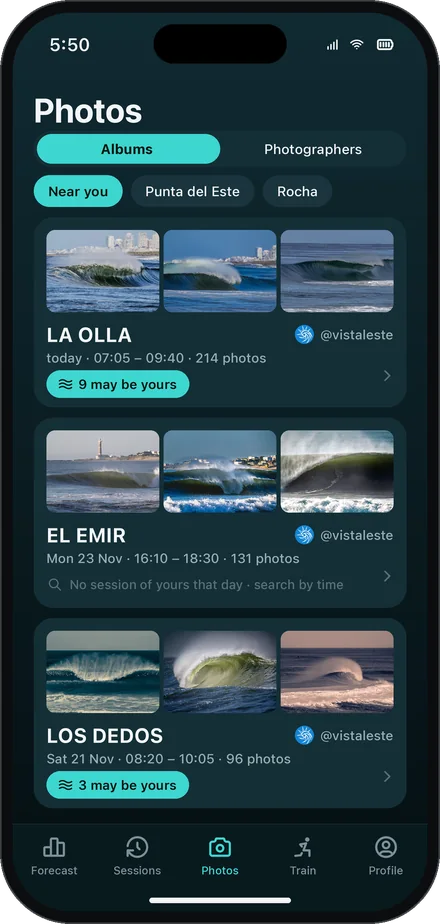
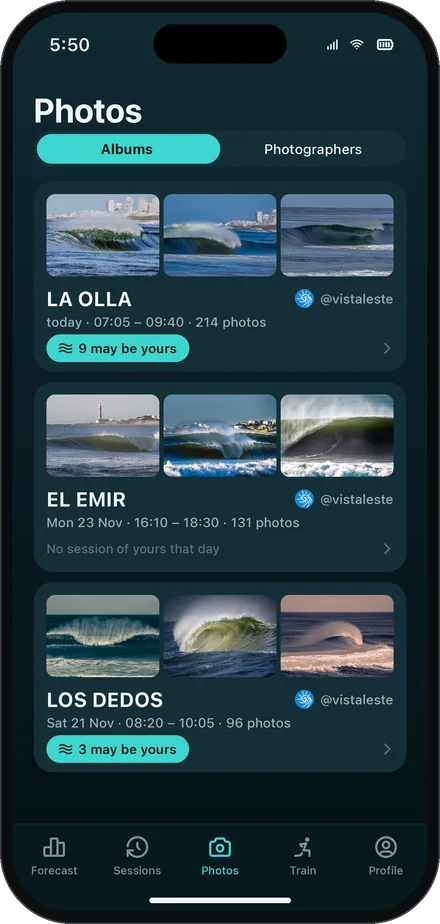
fotografos.html: las pantallas del teléfono como las tiene la app, con las fotos de @vistaleste
Las dos pantallas (fotos-ficha-{l}.webp, fotos-albumes-{l}.webp, en español, inglés y portugués) salían
de los mockups y mostraban cosas que la app no tiene. Ahora son como en la app del 25/11:

- La ficha de @vistaleste con un solo botón, Instagram (no tiene WhatsApp cargado), «Uruguay · Punta
  del Este» (no Rocha) y el texto de la app: «Las fotos son de @vistaleste. Para pedirle una, escribile.»
- Los álbumes sin los filtros «Cerca tuyo · Punta del Este · Rocha», que la app no tiene, y «Sin sesión
  tuya ese día» sin «buscar por hora».
- Las palabras en inglés y portugués, las de la app.
- El texto alternativo de la ficha dice «su Instagram» en vez de «sus contactos».

Siguen con las fotos reales de sus álbumes, nunca las dibujadas de la carpeta de prueba. Son las mismas
pantallas de las stories de Fotos (SurfDawn-tienda/instagram/web/phone-fotos-*.png, dibujadas con
web/fuentes/pantallas_fotos.py). Mirada en compu (1280 px) y teléfono (375 px), en español e inglés.

diff --git a/fotografos.html b/fotografos.html
@@ -16,8 +16,9 @@
 <meta property="og:image" content="https://surfdawn.app/web/foto-verde.jpg">
 <meta name="twitter:card" content="summary_large_image">
 <!-- Fotos, for photographers (25/11/2026): how it works for them, what they send, the rules and who is already in.
-     Only @vistaleste's photos in his albums and on his card; the phone screens (one per language) come from the Fotos
-     mockups until the app has its own screenshots. The images are copies here, never loaded from Google Drive (Drive is not a CDN). -->
+     Only @vistaleste's photos in his albums and on his card; the phone screens (one per language) are the app's as it
+     has them (25/11/2026: no zone pills, his card with Instagram alone and Punta del Este), drawn with his photos
+     (SurfDawn-tienda/instagram/web/fuentes/pantallas_fotos.py, as the stories'), until the app has its own screenshots. The images are copies here, never loaded from Google Drive (Drive is not a CDN). -->
 <style>
   @font-face { font-family: "Barlow"; font-weight: 600; font-display: swap; src: url("web/fonts/Barlow-SemiBold.woff") format("woff"); }
   @font-face { font-family: "Barlow"; font-weight: 500; font-display: swap; src: url("web/fonts/Barlow-Medium.woff") format("woff"); }
@@ -144,7 +145,7 @@
       </div>
       <span class="pin"><svg viewBox="0 0 24 24" fill="none" stroke="currentColor" stroke-width="2" aria-hidden="true"><path d="M9 11a3 3 0 1 0 6 0a3 3 0 0 0 -6 0"/><path d="M17.66 16.66l-4.24 4.24a2 2 0 0 1 -2.83 0l-4.25 -4.24a8 8 0 1 1 11.32 0z"/></svg><span data-t="credit">Uruguay · foto @vistaleste</span></span>
     </div>
-    <img class="phone" src="web/fotos-ficha-es.webp" data-img="web/fotos-ficha-{l}.webp" width="440" height="924" alt="La ficha de @vistaleste en Surf Dawn: su foto, su logo, sus contactos y sus álbumes" data-t-alt="altFicha">
+    <img class="phone" src="web/fotos-ficha-es.webp" data-img="web/fotos-ficha-{l}.webp" width="440" height="924" alt="La ficha de @vistaleste en Surf Dawn: su foto, su logo, su Instagram y sus álbumes" data-t-alt="altFicha">
   </div>
 </header>
 
@@ -230,7 +231,7 @@ const T = {
     write: "Message us at @surfdawn.app", yE: "Already here", slot: "Your spot here", slot1: "Brazil · Peru · Chile", slot2: "Your beach, in any country",
     lDay: "How it works", lDoes: "What it does", t4: "Train", lFaq: "Questions", lPhot: "Photographers", lMan: "Manual", install: "Install for free",
     om: "Forecasts from Open-Meteo", sup: "Support", privL: "Privacy", _pdf: "https://scgm11.github.io/surf-dawn-data/manual/Surf-Dawn-manual-en.pdf",
-    altFicha: "@vistaleste's page in Surf Dawn: his photo, his logo, his contacts and his albums",
+    altFicha: "@vistaleste's page in Surf Dawn: his photo, his logo, his Instagram and his albums",
     altAlb: "The day's albums in Surf Dawn, each with the photos that may be yours"
   },
   pt: {
@@ -255,7 +256,7 @@ const T = {
     write: "Escreva para @surfdawn.app", yE: "Já estão", slot: "O seu lugar aqui", slot1: "Brasil · Peru · Chile", slot2: "Sua praia, em qualquer país",
     lDay: "Como funciona", lDoes: "O que faz", t4: "Treinar", lFaq: "Perguntas", lPhot: "Fotógrafos", lMan: "Manual", install: "Instalar grátis",
     om: "Previsões do Open-Meteo", sup: "Suporte", privL: "Privacidade", _pdf: "https://scgm11.github.io/surf-dawn-data/manual/Surf-Dawn-manual-pt.pdf",
-    altFicha: "A página de @vistaleste no Surf Dawn: a foto, o logo, os contatos e os álbuns dele",
+    altFicha: "A página de @vistaleste no Surf Dawn: a foto, o logo, o Instagram e os álbuns dele",
     altAlb: "Os álbuns do dia no Surf Dawn, cada um com as fotos que podem ser suas"
   }
 };
